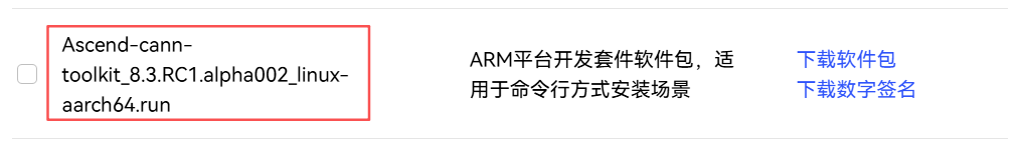
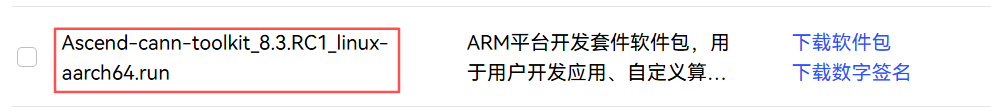
2.7.1分支香橙派MS2.7.1更新

diff --git a/tutorials/source_en/orange_pi/environment_setup.md b/tutorials/source_en/orange_pi/environment_setup.md
@@ -150,7 +150,7 @@ Step 2 Execute the following command to obtain version information.
 
 ![environment-setup-1-25](../../source_zh_cn/orange_pi/images/environment_setup_1-25.png)
 
-### 3.2 CANN Upgrading (taking 8.3.RC1.alpha002 version as an example)
+### 3.2 CANN Upgrading (taking 8.3.RC1 version as an example)
 
 If the current CANN version does not meet the development requirements, the CANN version can be upgraded according to the following steps.
 
@@ -181,7 +181,7 @@ Step 2 Remove installed CANN packages to free up disk space and prevent installi
 
 ```
 
-Step 3 Open the official website of Ascend CANN to access the community version of the resource [download address](https://www.hiascend.com/developer/download/community/result?module=cann), download the required version of the toolkit package. Taking 8.3.RC1.alpha002 version as an example, as shown below:
+Step 3 Open the official website of Ascend CANN to access the community version of the resource [download address](https://www.hiascend.com/developer/download/community/result?module=cann), download the required version of the toolkit package. Taking 8.3.RC1 version as an example, as shown below:
 
 ![environment-setup-1-15](../../source_zh_cn/orange_pi/images/environment_setup_1-15.png)
 
@@ -202,13 +202,13 @@ Step 4 Go to the Toolkit package download directory.
 Step 5 Add execution permissions to the CANN package.
 
 ```bash
-(base) root@orangepiaipro: /home/HwHiAiUser/Downloads# chmod +x ./Ascend-cann-toolkit_8.3.RC1.alpha002_linux-aarch64.run
+(base) root@orangepiaipro: /home/HwHiAiUser/Downloads# chmod +x ./Ascend-cann-toolkit_8.3.RC1_linux-aarch64.run
 ```
 
 Step 6 Execute the following command to upgrade the software.
 
 ```bash
-(base) root@orangepiaipro: /home/HwHiAiUser/Downloads#./Ascend-cann-toolkit_8.3.RC1.alpha002_linux-aarch64.run --install
+(base) root@orangepiaipro: /home/HwHiAiUser/Downloads#./Ascend-cann-toolkit_8.3.RC1_linux-aarch64.run --install
 ```
 
 Type Y when this prompt pops up during installation, then press Enter to continue the installation. This process takes about 10-15 minutes, please be patient.
@@ -275,13 +275,13 @@ Step 4 Go to the Kernels package download directory.
 Step 5 Add execution permissions to the kernels package.
 
 ```bash
-(base) root@orangepiaipro: /home/HwHiAiUser/Downloads# chmod +x ./Ascend-cann-kernels-310b_8.3.RC1.alpha002_linux-aarch64.run
+(base) root@orangepiaipro: /home/HwHiAiUser/Downloads# chmod +x ./Ascend-cann-kernels-310b_8.3.RC1_linux-aarch64.run
 ```
 
 Step 6 Execute the following command to upgrade the software.
 
 ```bash
-(base) root@orangepiaipro: /home/HwHiAiUser/Downloads#./Ascend-cann-kernels-310b_8.3.RC1.alpha002_linux-aarch64.run --install
+(base) root@orangepiaipro: /home/HwHiAiUser/Downloads#./Ascend-cann-kernels-310b_8.3.RC1_linux-aarch64.run --install
 ```
 
 After the upgrade is completed, if the following message is displayed, the software upgrade is successful:

diff --git a/tutorials/source_zh_cn/orange_pi/environment_setup.md b/tutorials/source_zh_cn/orange_pi/environment_setup.md
@@ -150,7 +150,7 @@
 
 ![environment-setup-1-25](./images/environment_setup_1-25.png)
 
-### 3.2 CANN升级（以CANN 8.3.RC1.alpha002为例）
+### 3.2 CANN升级（以CANN 8.3.RC1为例）
 
 若当前CANN版本不满足开发需求，可按照如下内容对CANN版本进行升级。
 
@@ -181,7 +181,7 @@
 
 ```
 
-步骤3 打开昇腾CANN官网访问社区版资源[下载地址](https://www.hiascend.com/developer/download/community/result?module=cann)，下载所需版本的toolkit包，该处以8.3.RC1.alpha002版本为例，如下图：
+步骤3 打开昇腾CANN官网访问社区版资源[下载地址](https://www.hiascend.com/developer/download/community/result?module=cann)，下载所需版本的toolkit包，该处以8.3.RC1版本为例，如下图：
 
 ![environment-setup-1-15](./images/environment_setup_1-15.png)
 
@@ -202,13 +202,13 @@
 步骤5 给CANN包添加执行权限。
 
 ```bash
-(base) root@orangepiaipro: /home/HwHiAiUser/Downloads# chmod +x ./Ascend-cann-toolkit_8.3.RC1.alpha002_linux-aarch64.run
+(base) root@orangepiaipro: /home/HwHiAiUser/Downloads# chmod +x ./Ascend-cann-toolkit_8.3.RC1_linux-aarch64.run
 ```
 
 步骤6 执行以下命令升级软件。
 
 ```bash
-(base) root@orangepiaipro: /home/HwHiAiUser/Downloads#./Ascend-cann-toolkit_8.3.RC1.alpha002_linux-aarch64.run --install
+(base) root@orangepiaipro: /home/HwHiAiUser/Downloads#./Ascend-cann-toolkit_8.3.RC1_linux-aarch64.run --install
 ```
 
 安装时弹出此提示后输入Y，然后按回车键继续安装。该过程约需要10-15分钟，请耐心等待。
@@ -275,13 +275,13 @@ npu-smi info
 步骤5 给kernels包添加执行权限。
 
 ```bash
-(base) root@orangepiaipro: /home/HwHiAiUser/Downloads# chmod +x ./Ascend-cann-kernels-310b_8.3.RC1.alpha002_linux-aarch64.run
+(base) root@orangepiaipro: /home/HwHiAiUser/Downloads# chmod +x ./Ascend-cann-kernels-310b_8.3.RC1_linux-aarch64.run
 ```
 
 步骤6 执行以下命令升级软件。
 
 ```bash
-(base) root@orangepiaipro: /home/HwHiAiUser/Downloads#./Ascend-cann-kernels-310b_8.3.RC1.alpha002_linux-aarch64.run --install
+(base) root@orangepiaipro: /home/HwHiAiUser/Downloads#./Ascend-cann-kernels-310b_8.3.RC1_linux-aarch64.run --install
 ```
 
 升级完成后，若显示如下信息，则说明软件升级成功：

diff --git a/tutorials/source_en/orange_pi/dev_start.md b/tutorials/source_en/orange_pi/dev_start.md
@@ -10,7 +10,7 @@ After obtaining the OrangePi AIpro development board, developers first need to c
 
 | OrangePi AIpro | Image | CANN Toolkit/Kernels | MindSpore |
 | :----:| :----: | :----:| :----: |
-| 8T 16G | Ubuntu | 8.1.RC1| 2.6.0 |
+| 8T 16G | Ubuntu | 8.3.RC1| 2.7.1 |
 
 ### Image Burning
 
@@ -351,7 +351,7 @@ for data, label in test_dataset:
         plt.subplot(2, 3, i + 1)
         # If the prediction is correct, it will be displayed in blue; if the prediction is incorrect, it will be displayed in red
         color = 'blue' if predicted[i] == label[i] else 'red'
-        plt.title('Predicted:{}'.format(predicted[i]), color=color)
+        plt.title(f'Predicted:{i}'.format(predicted[i]), color=color)
         plt.imshow(data.asnumpy()[i][0], interpolation="None", cmap="gray")
         plt.axis('off')
     plt.show()
@@ -368,4 +368,4 @@ The required environment for the operation of this case:
 
 | OrangePi AIpro | Image | CANN Toolkit/Kernels | MindSpore |
 | :----:| :----: | :----:| :----: |
-| 8T 16G | Ubuntu | 8.1.RC1| 2.6.0 |
+| 8T 16G | Ubuntu | 8.3.RC1| 2.7.1 |
